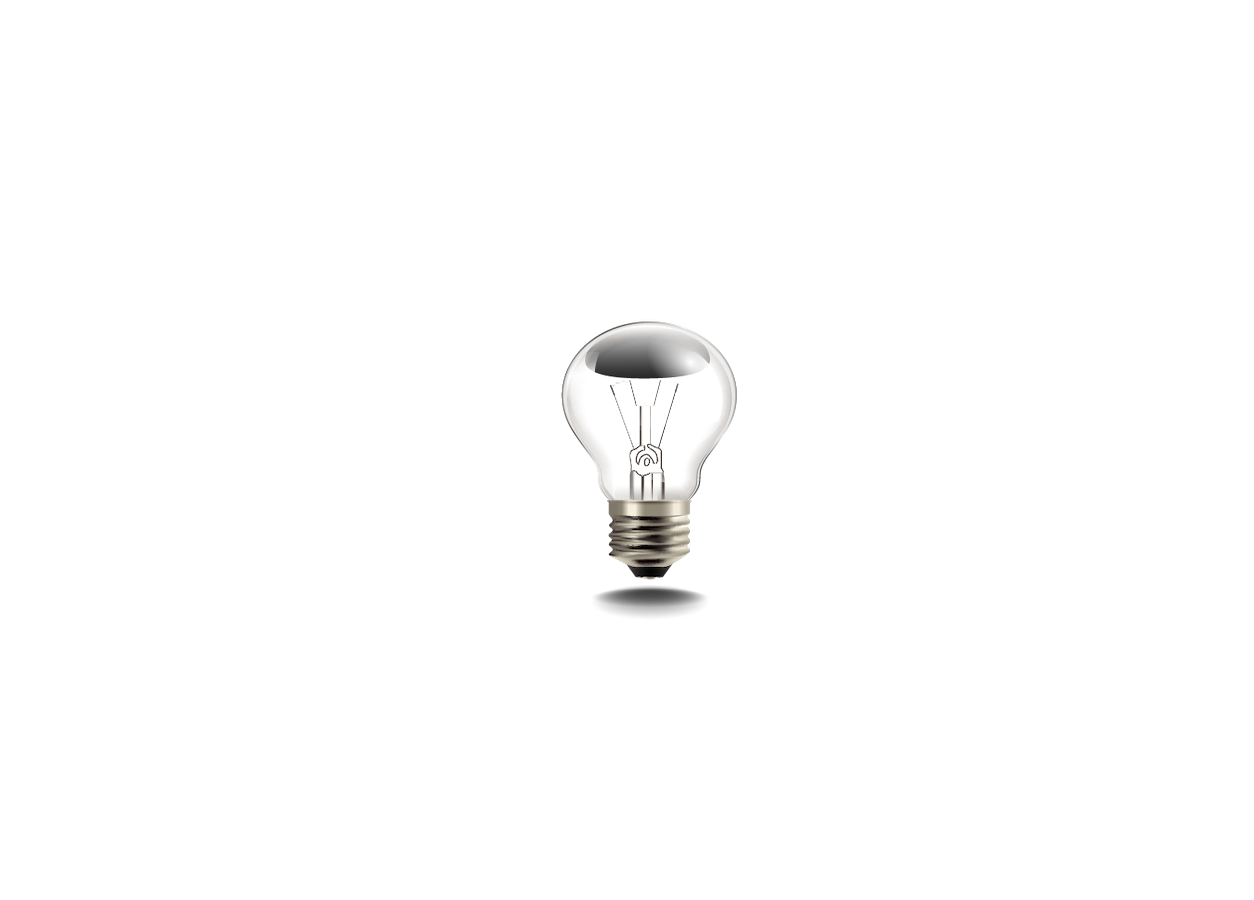
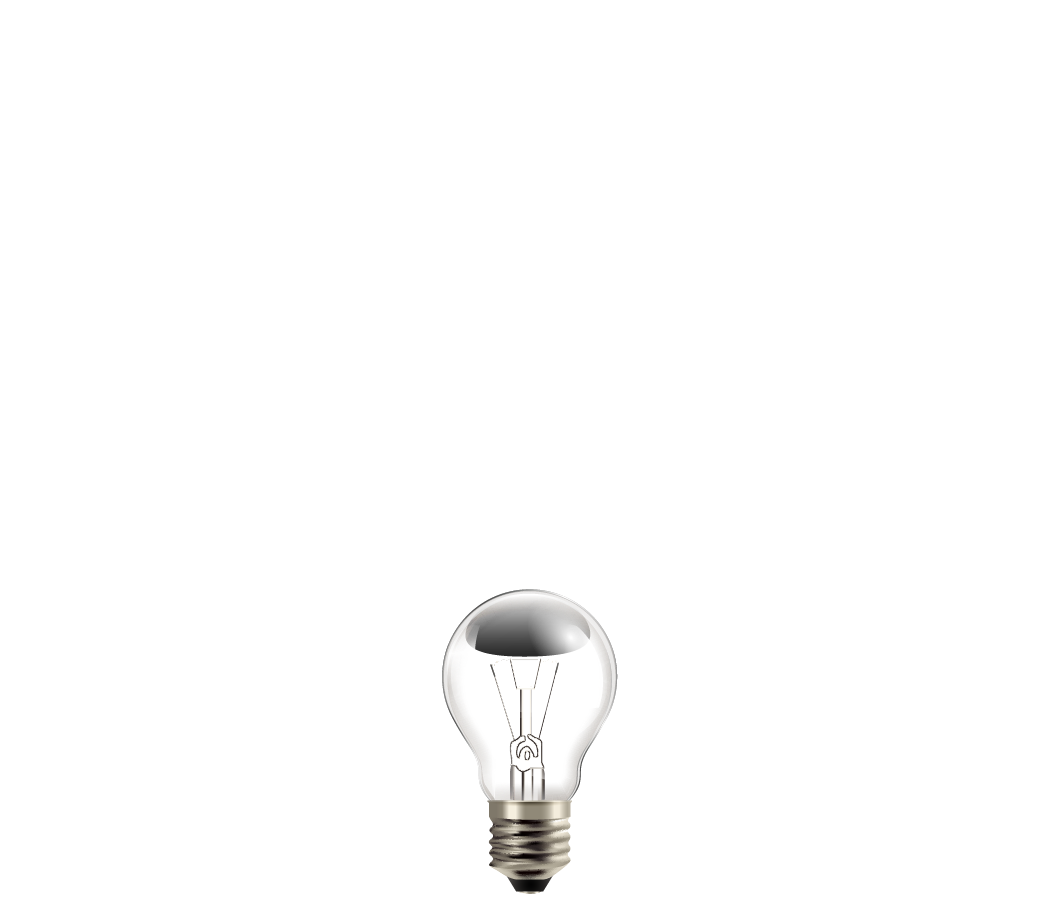
Update App.tsx and style.css

Changed region(s): [[0.4043, 0.3422, 0.591, 0.8089], [0.4354, 0.7778, 0.5598, 0.9956], [0.4354, 0.4356, 0.4665, 0.4978]]

diff --git a/front-end/src/style.css b/front-end/src/style.css
@@ -14,7 +14,7 @@ body {
 
 .box {
     position: relative;
-    width: 1254px;
+    width: 1061px;
     height: 100vh;
 }
 
@@ -23,39 +23,31 @@ body {
     position: absolute;
     width: 100%;
     height: 100vh;
-    background: url('./Content//Images/bright.png');
+    background: url('./Content//Images/100-percent.png');
     background-size: cover;
     background-position: center;
     background-repeat: no-repeat;
-    animation: animate1 2s linear 1, animate2 1s linear 1 2s, animate1 4s linear 1 3s, animate2 1s linear 1 7s, animate3 2s linear 1 8s;
+    animation: animate1 4s linear 1
 }
 
 @keyframes animate1 {
-    0%, 100% {
-        background: url('./Content//Images/off.png') no-repeat center;
-    }
-
-    50% {
-        background: url('./Content//Images/on.png') no-repeat center;
-    }
-}
-
-@keyframes animate2 {
-    0%, 100% {
-        background: url('./Content//Images/off.png') no-repeat center;
-    }
-}
-
-@keyframes animate3 {
     0% {
         background: url('./Content//Images/off.png') no-repeat center;
     }
 
+    25% {
+        background: url('./Content//Images/25-percent.png') no-repeat center;
+    }
+
     50% {
-        background: url('./Content//Images/on.png') no-repeat center;
+        background: url('./Content//Images/50-percent.png') no-repeat center;
+    }
+
+    75% {
+        background: url('./Content//Images/75-percent.png') no-repeat center;
     }
 
     100% {
-        background: url('./Content//Images/bright.png') no-repeat center;
+        background: url('./Content//Images/100-percent.png') no-repeat center;
     }
 }

diff --git a/front-end/src/App.tsx b/front-end/src/App.tsx
@@ -6,7 +6,7 @@ function App() {
 
   return (
       <div className='box'>
-        <Typography variant="h3" component="div" gutterBottom color="#09111b" position="absolute" style={{ textAlign: 'center', display: 'flex', justifyContent: 'center', paddingTop: '5%', paddingLeft: '5%', width: '100%', height: '100%', zIndex: 1, textShadow: '0px -4px 4px rgba(19, 17, 27, 1)' }}>
+        <Typography variant="h3" component="div" gutterBottom color="#09111b" position="absolute" style={{ textAlign: 'center', display: 'flex', justifyContent: 'center', paddingTop: '5%', width: '100%', height: '100%', zIndex: 1, textShadow: '0px -4px 4px rgba(19, 17, 27, 1)' }}>
           Hello World
         </Typography>
         <span></span>
